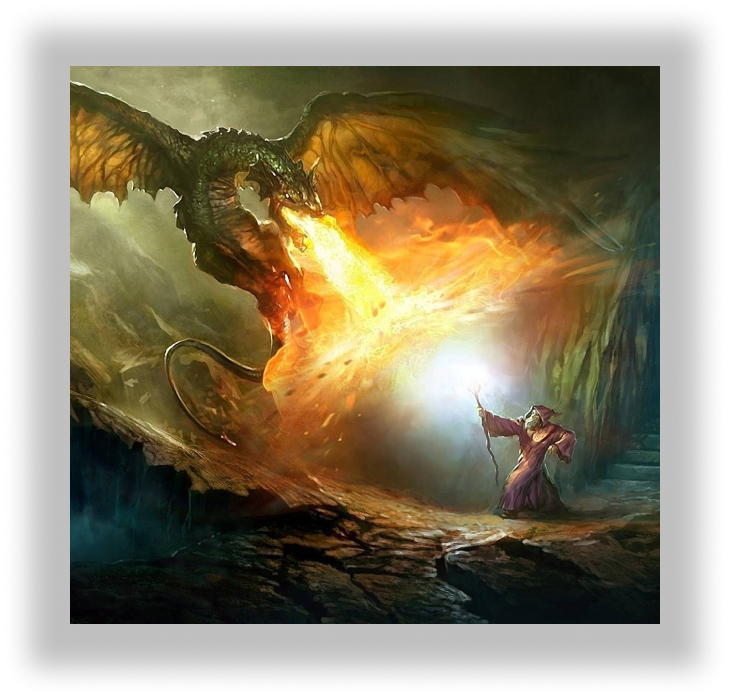
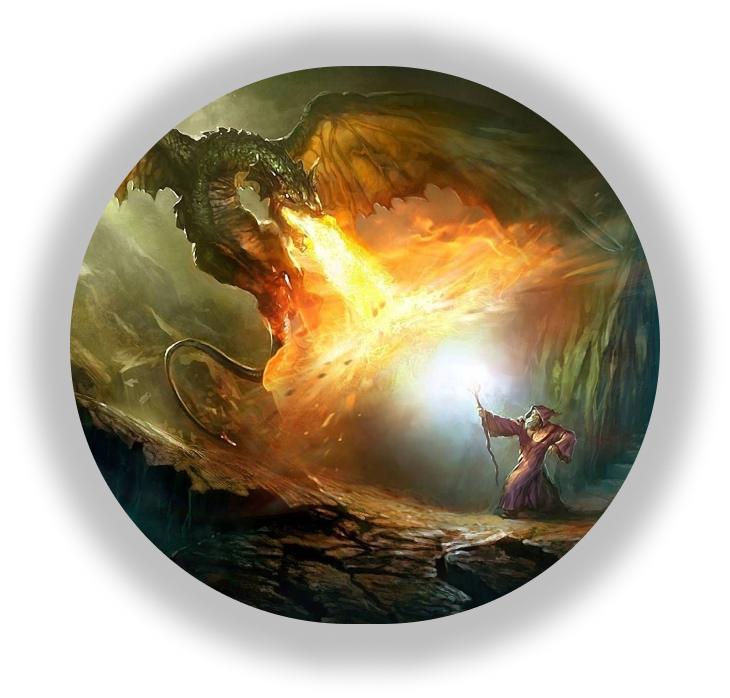
designed handlebars/added css

diff --git a/public/css/jass.css b/public/css/jass.css
@@ -1140,7 +1140,7 @@ form .form-label {
 }
 
 form .form-input {
-  width: 100%;
+  width: 50%;
   padding: 0.75rem;
   color: #1a1a1a;
   background-color: #ffffff;

diff --git a/public/css/style.css b/public/css/style.css
@@ -3,3 +3,12 @@
   margin: auto;
   display: block;
 }
+
+#cta-image {
+  display: block;
+  max-width: 50%;
+}
+
+#dwarf {
+  width: auto;
+}
